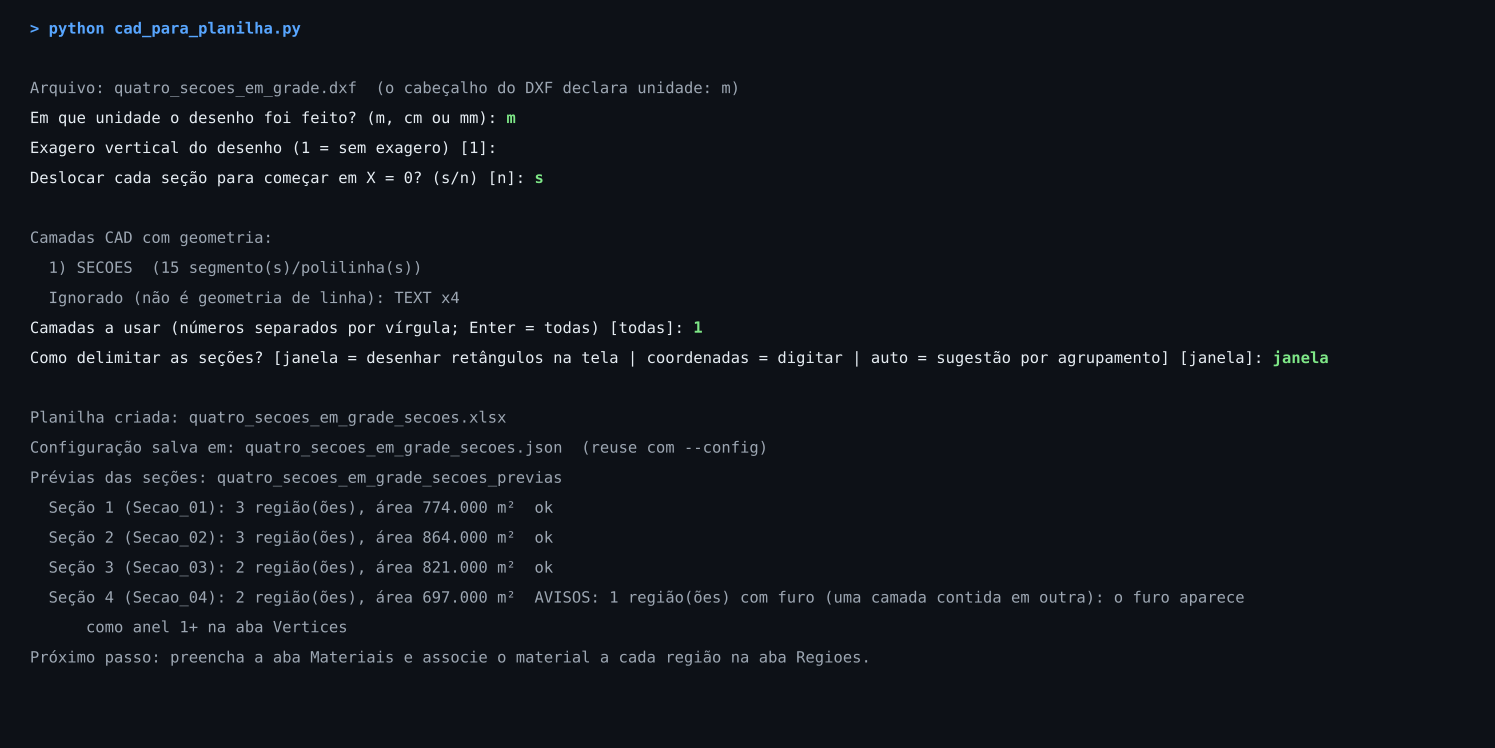
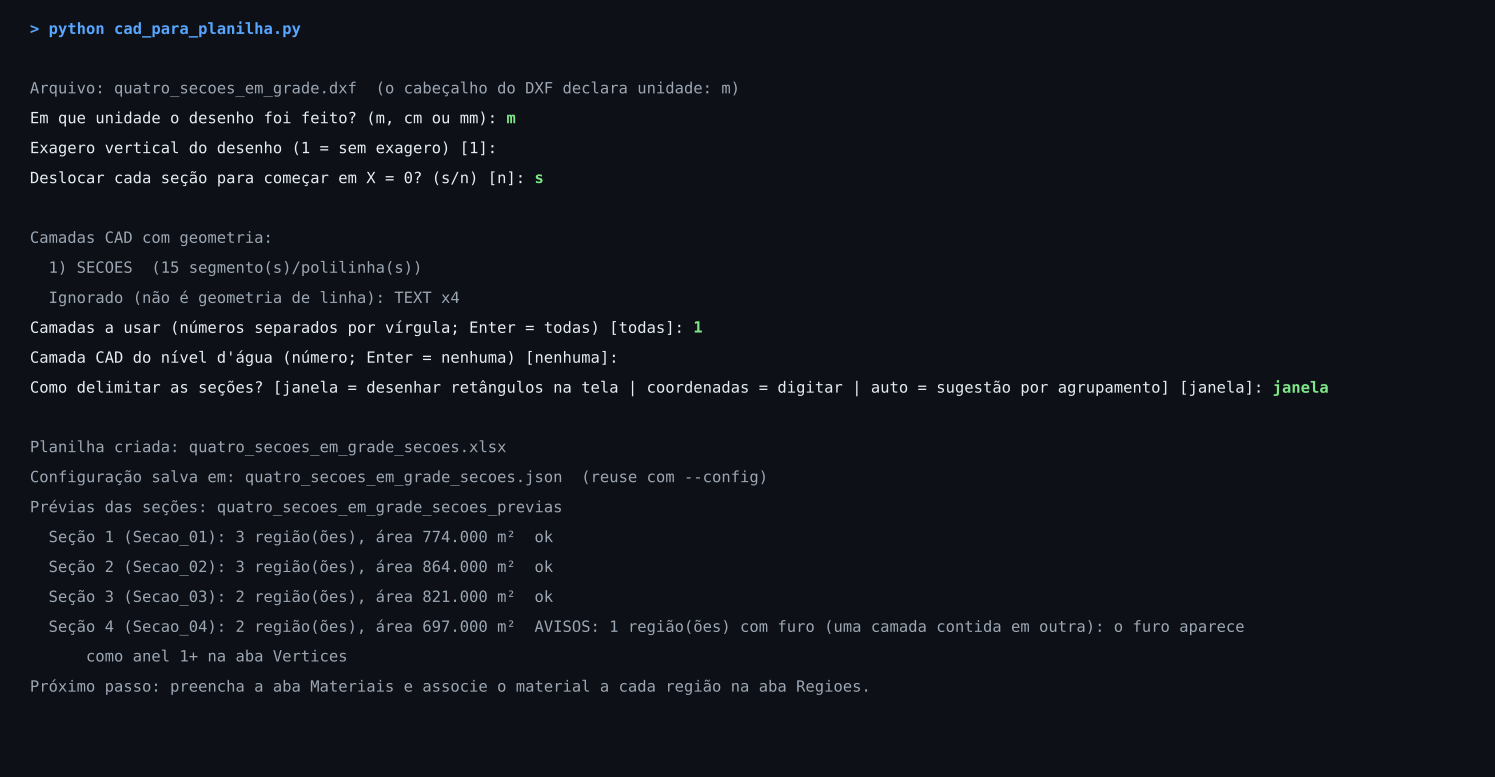
Módulo 02 v0.5: NA do CAD e abas NA e Cargas
Pergunta qual camada do CAD é o nível d'água, tira essa camada das regiões e
grava os pontos de cada seção na nova aba NA (origem CAD). Nova aba Cargas para
o usuário preencher (distribuida/linha, X, intensidade, ângulo).

Claude-Session: https://claude.ai/code/session_016NX9F96X34gigu7jmLDSjT

diff --git a/modulos/02_cad_para_planilha/cad_para_planilha.py b/modulos/02_cad_para_planilha/cad_para_planilha.py
@@ -52,7 +52,7 @@ except ImportError as exc:  # pragma: no cover
     sys.exit(f"Falta a biblioteca '{exc.name}'. Instale com:\n"
              "  pip install ezdxf shapely openpyxl matplotlib")
 
-VERSAO = "0.4"
+VERSAO = "0.5"
 EPS = 1e-9
 UNIDADES = {"m": 1.0, "cm": 0.01, "mm": 0.001}
 INSUNITS_NOME = {4: "mm", 5: "cm", 6: "m"}
@@ -456,6 +456,23 @@ def processar_secao(nome, itens, fator, exagero, zerar_x, tol, area_min):
     return sec
 
 
+def extrair_na(itens, fator, exagero, desloc_x):
+    """Linha do NA de uma seção: une os trechos e devolve os pontos da esquerda para a direita."""
+    if not itens:
+        return [], None
+    from shapely.ops import linemerge
+    linhas = [LineString([(x * fator - desloc_x, y * fator / exagero) for x, y in it["pts"]]) for it in itens]
+    unida = linemerge(unary_union(linhas))
+    partes = sorted(getattr(unida, "geoms", [unida]), key=lambda g: -g.length)
+    pts = [tuple(p[:2]) for p in partes[0].coords]
+    if pts[0][0] > pts[-1][0]:
+        pts.reverse()
+    aviso = None
+    if len(partes) > 1:
+        aviso = f"o NA tem {len(partes)} trechos separados; usei o mais longo"
+    return pts, aviso
+
+
 def aneis(poly):
     yield 0, list(poly.exterior.coords)[:-1]
     for k, r in enumerate(poly.interiors, 1):
@@ -533,7 +550,11 @@ def gravar_xlsx(caminho, secoes, config, previas):
         "   Coluna 'Cota real do ponto mais alto' (opcional): se a seção não está na cota real no desenho",
         "   (ex.: seções empilhadas na prancha), informe a cota verdadeira do ponto mais alto da seção;",
         "   a seção inteira é deslocada em Y para essa cota. Use quando NA, cargas ou relatório estiverem em cota real.",
-        "5) Não altere as abas Vertices e Origem; o próximo script lê as coordenadas de lá.",
+        "5) Aba NA (opcional): pontos do nível d'água por seção, da esquerda para a direita. Linhas com Origem = CAD",
+        "   vieram do desenho e acompanham a seção; linhas digitadas (Origem = planilha ou vazio) estão em cota real.",
+        "6) Aba Cargas (opcional): uma linha por carga. Distribuída: X início, X fim e kPa. Linha: X e kN/m.",
+        "   O X é o da seção (o mesmo das abas Vertices e Previas); a carga é posta sobre o terreno.",
+        "7) Não altere as abas Vertices e Origem; o próximo script lê as coordenadas de lá.",
         "",
         "Unidades: coordenadas em metros; cota (Y) mantém o valor do desenho.",
         "Modelo de resistência previsto: Mohr-Coulomb (γ, c', φ').",
@@ -598,6 +619,28 @@ def gravar_xlsx(caminho, secoes, config, previas):
     wsec.row_dimensions[1].height = 45
     wver.row_dimensions[1].height = 32
 
+    wna = wb.create_sheet("NA")
+    wna.append(["Seção", "Ordem", "X (m)", "Y (m)", "Origem (CAD/planilha)"])
+    estilizar_cabecalho(wna, 5)
+    for n, sec in enumerate(secoes, 1):
+        for k, (x, y) in enumerate(sec.get("na", []), 1):
+            wna.append([n, k, round(x, 6), round(y, 6), "CAD"])
+    largura(wna, [8, 8, 14, 14, 22])
+    wna.row_dimensions[1].height = 32
+
+    wc = wb.create_sheet("Cargas")
+    wc.append(["Seção", "Tipo (distribuida/linha)", "X início (m)", "X fim (m, só distribuída)",
+               "Intensidade (kPa ou kN/m)", "Ângulo (°, vazio = 270 = vertical p/ baixo)", "Observações"])
+    estilizar_cabecalho(wc, 7)
+    for r in range(2, 42):
+        for c in range(1, 7):
+            wc.cell(row=r, column=c).fill = amarelo
+    dvt = DataValidation(type="list", formula1='"distribuida,linha"', allow_blank=True)
+    wc.add_data_validation(dvt)
+    dvt.add("B2:B1000")
+    largura(wc, [8, 22, 13, 22, 24, 36, 36])
+    wc.row_dimensions[1].height = 45
+
     wp = wb.create_sheet("Previas")
     linha = 1
     for n, (sec, png) in enumerate(zip(secoes, previas), 1):
@@ -640,6 +683,7 @@ def main(argv=None) -> int:
     ap.add_argument("--exagero-vertical", type=float, help="Fator de exagero vertical do desenho (1 = sem exagero)")
     ap.add_argument("--zerar-x", choices=["s", "n"], help="Deslocar cada seção para começar em X = 0 (a cota Y não muda)")
     ap.add_argument("--camadas", help="Camadas CAD a usar, separadas por vírgula")
+    ap.add_argument("--camada-na", help="Camada CAD com o nível d'água (vazio = nenhuma)")
     ap.add_argument("--modo", choices=["janela", "coordenadas", "auto"], help="Como delimitar as seções")
     ap.add_argument("--janelas", help='Janelas nas unidades do desenho: "x0,y0,x1,y1;x0,y0,x1,y1"')
     ap.add_argument("--tol", type=float, default=None, help="Tolerância (m) para unir pontas de linha (padrão 0.001)")
@@ -713,7 +757,19 @@ def main(argv=None) -> int:
         faltam = [c for c in escolha if c not in contagem]
         if faltam or not escolha:
             raise ValueError(f"Camada(s) inexistente(s) ou nenhuma escolhida: {faltam or escolha}")
-        itens = [it for it in itens if it["camada"] in escolha]
+        camada_na = pick("camada_na")
+        if camada_na is None:
+            bruto = perguntar("Camada CAD do nível d'água (número; Enter = nenhuma)", "nenhuma")
+            if bruto.lower() == "nenhuma":
+                camada_na = ""
+            elif bruto.isdigit() and 0 < int(bruto) <= len(nomes):
+                camada_na = nomes[int(bruto) - 1]
+            else:
+                raise ValueError(f"Camada do NA inválida: {bruto}")
+        if camada_na and camada_na not in contagem:
+            raise ValueError(f"Camada do NA inexistente: {camada_na}")
+        itens_na = [it for it in itens if camada_na and it["camada"] == camada_na]
+        itens = [it for it in itens if it["camada"] in escolha and it["camada"] != camada_na]
 
         # --- como delimitar as seções ---
         if args.janelas:
@@ -754,10 +810,17 @@ def main(argv=None) -> int:
         for j, its, cort in zip(janelas, por_secao, cortadas):
             sec = processar_secao(j["nome"], its, fator, exagero, zerar_x, tol, area_min)
             sec["janela"] = j
+            sec["na"] = []
             if cort:
                 sec["avisos"].append(f"{cort} entidade(s) cortada(s) pela janela foram ignoradas "
                                      "(alargue a janela)")
             secoes.append(sec)
+        if itens_na:
+            por_na, _, _ = atribuir(itens_na, janelas)
+            for sec, its in zip(secoes, por_na):
+                sec["na"], aviso = extrair_na(its, fator, exagero, sec["desloc_x"])
+                if aviso:
+                    sec["avisos"].append(aviso)
         for a in range(len(janelas)):
             for b in range(a + 1, len(janelas)):
                 ja, jb = janelas[a], janelas[b]
@@ -779,7 +842,7 @@ def main(argv=None) -> int:
         config = {
             "versao_script": VERSAO, "dxf": str(dxf_path), "unidade": unidade, "exagero_vertical": exagero,
             "zerar_x": zerar_x, "tolerancia_m": tol, "tol_arco_m": tol_arco, "area_min_m2": area_min,
-            "camadas": escolha, "modo": modo, "janelas": janelas,
+            "camadas": escolha, "camada_na": camada_na, "modo": modo, "janelas": janelas,
         }
         gravar_xlsx(destino, secoes, config, previas)
         destino.with_suffix(".json").write_text(json.dumps(config, ensure_ascii=False, indent=2), encoding="utf-8")

diff --git a/testes/test_cad_para_planilha.py b/testes/test_cad_para_planilha.py
@@ -84,10 +84,11 @@ def test_planilha_gerada():
         saida = Path(d) / "s.xlsx"
         with redirect_stdout(io.StringIO()):
             rc = cpp.main([str(dxf), "--unidade", "m", "--exagero-vertical", "1", "--zerar-x", "n",
-                           "--camadas", "0", "--janelas", "0,-12,50,14;95,-12,145,14", "--saida", str(saida)])
+                           "--camadas", "0", "--camada-na", "", "--janelas", "0,-12,50,14;95,-12,145,14",
+                           "--saida", str(saida)])
         assert rc == 0
         wb = openpyxl.load_workbook(saida)
-        assert wb.sheetnames == ["LEIA-ME", "Materiais", "Secoes", "Regioes", "Vertices", "Previas", "Origem"]
+        assert wb.sheetnames == ["LEIA-ME", "Materiais", "Secoes", "Regioes", "Vertices", "NA", "Cargas", "Previas", "Origem"]
         assert wb["Regioes"].max_row == 3
         cab = [c.value for c in wb["Secoes"][1]]
         assert "Cota real do ponto mais alto (m, opcional)" in cab and cab.index("Avisos") == 11
@@ -95,6 +96,7 @@ def test_planilha_gerada():
         dv = wb["Regioes"].data_validations.dataValidation[0]
         assert dv.formula1 == "=Materiais!$A$2:$A$21"
         assert len(wb["Previas"]._images) == 2
+        assert wb["NA"].max_row == 1 and wb["Cargas"]["B1"].value.startswith("Tipo")
         assert saida.with_suffix(".json").is_file()
         # repetir com --config deve dar o mesmo resultado sem perguntas
         with redirect_stdout(io.StringIO()):

diff --git a/docs/gerar_imagens.py b/docs/gerar_imagens.py
@@ -58,7 +58,7 @@ class Gravador(io.StringIO):
 
 
 def rodada_terminal(pasta):
-    respostas = iter(["m", "", "s", "1", "janela"])
+    respostas = iter(["m", "", "s", "1", "", "janela"])
     grav = Gravador()
 
     def falso_input(prompt=""):
